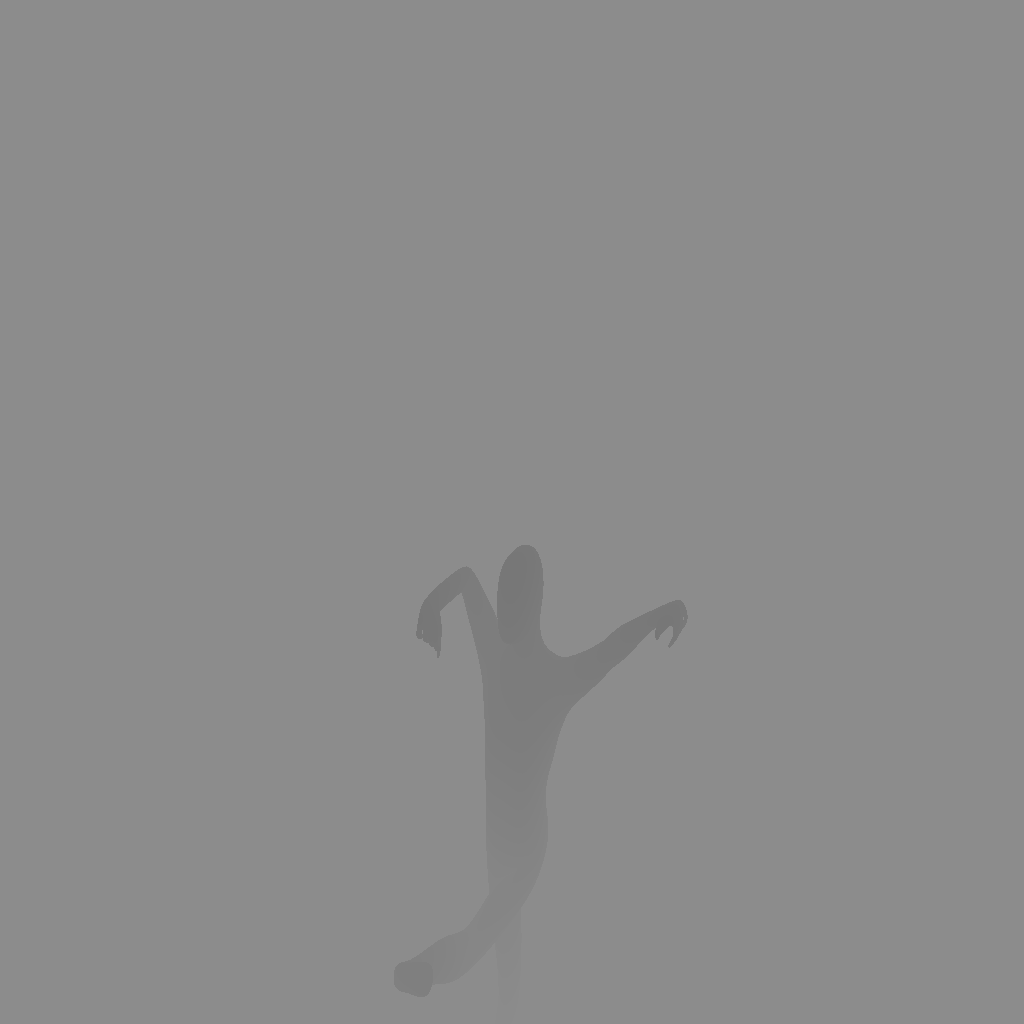
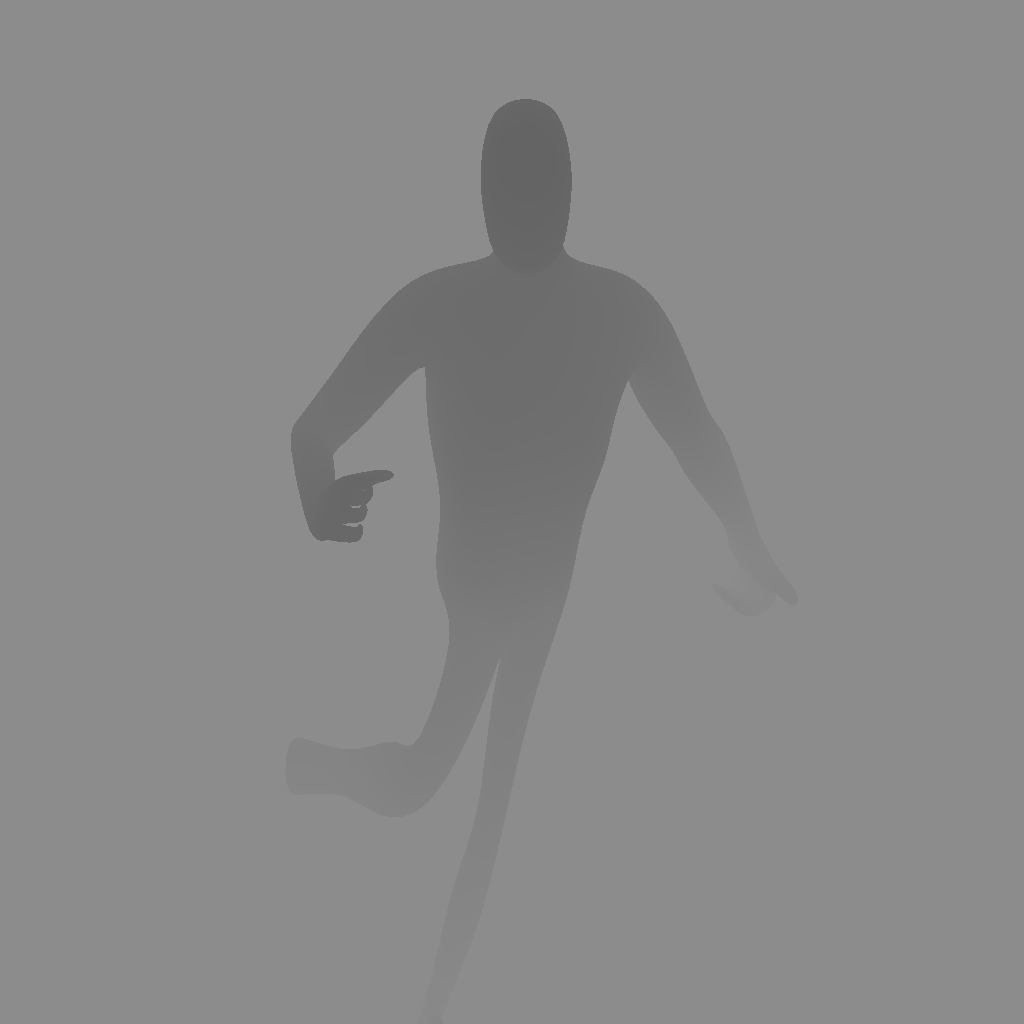
Project many joints at once

Changed region(s): [[0.2812, 0.0938, 0.6562, 0.5312]]

diff --git a/synth.py b/synth.py
@@ -71,14 +71,17 @@ def space_convert(mat):
     s = bpy.context.scene.render.resolution_percentage / 100
     return [projected.x * bpy.context.scene.render.resolution_x * s, projected.y * bpy.context.scene.render.resolution_y * s]
 
+def project(j):
+    mat = bpy.data.objects["MaleArm"].matrix_world
+    bone = bpy.data.objects["MaleArm"].pose.bones[j]
+    return space_convert(mat * bone.matrix)
+
 def export_json(prefix, count):
     f = open(prefix + "render_" + str(count) + "_skeleton.json", "w")
     
-    mat = bpy.data.objects["MaleArm"].matrix_world
-    bone = bpy.data.objects["MaleArm"].pose.bones["Head"]
-    skeleton = { "head": space_convert(mat * bone.matrix) }
+    skeleton = { "head": "Head", "lhand": "Hand.Left", "rhand": "Hand.Right"}
 
-    f.write(json.dumps(skeleton))
+    f.write(json.dumps({k: project(v) for k, v in skeleton.items()}))
     f.close()
 
 def render_frame(count):
